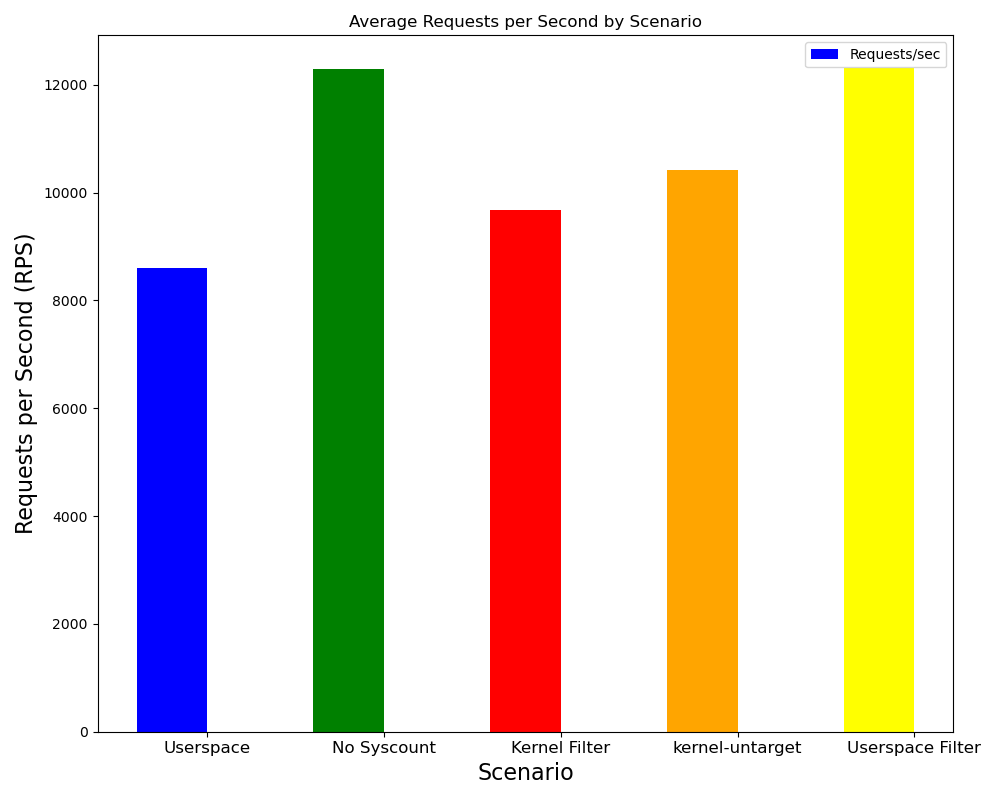
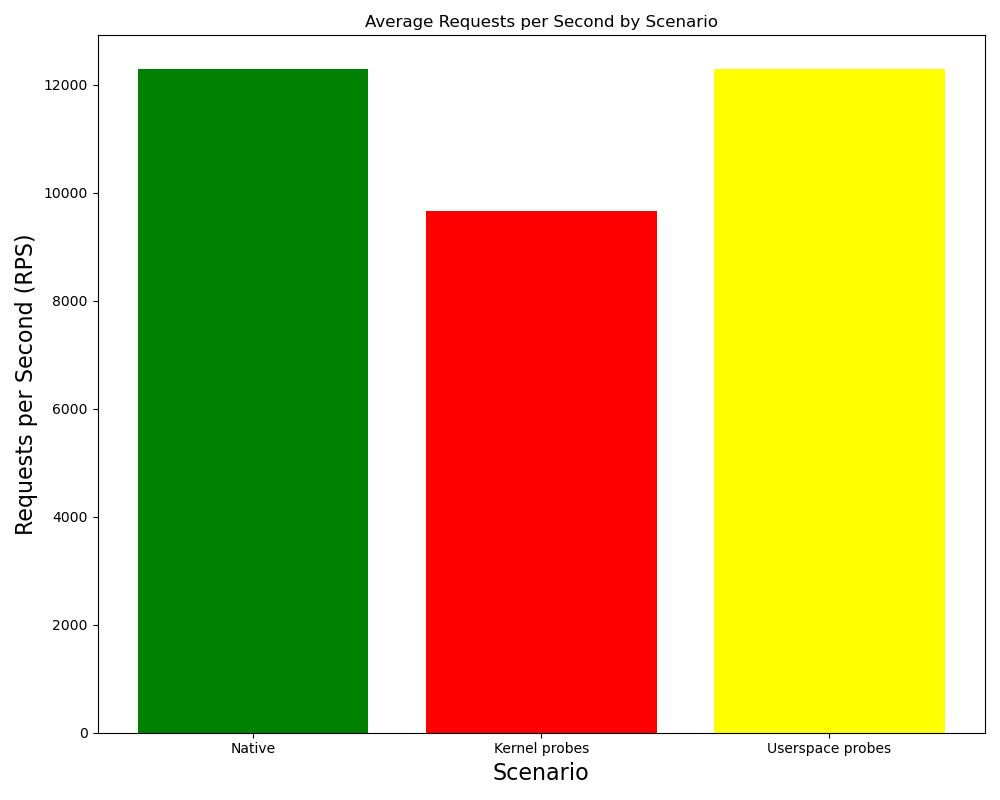
Add process_mnfe.py

diff --git a/syscount/process_mnfe.py b/syscount/process_mnfe.py
@@ -1,0 +1,144 @@
+import re
+import statistics
+import matplotlib.pyplot as plt
+import numpy as np
+
+
+def get_stats_and_plot(log_file_path, label, color):
+    # Regular expressions to extract the numerical values for requests per second and transfer per second
+    req_sec_pattern = re.compile(r"Requests/sec:\s+(\d+\.\d+)")
+    transfer_sec_pattern = re.compile(r"Transfer/sec:\s+(\d+\.\d+)MB")
+
+    # Lists to store the values extracted from the log file
+    req_sec_values = []
+    transfer_sec_values = []
+
+    # Open the log file and extract the values
+    with open(log_file_path, "r") as file:
+        log_contents = file.read()
+        req_sec_values = [
+            float(match) for match in req_sec_pattern.findall(log_contents)
+        ]
+        transfer_sec_values = [
+            float(match) for match in transfer_sec_pattern.findall(log_contents)
+        ]
+
+    # Function to calculate various statistics
+    def calculate_statistics(values):
+        return {
+            "mean": statistics.mean(values),
+            "median": statistics.median(values),
+            "stdev": statistics.stdev(values) if len(values) > 1 else 0,
+            "min": min(values),
+            "max": max(values),
+        }
+
+    # Calculate statistics for Requests/sec and Transfer/sec
+    req_sec_stats = calculate_statistics(req_sec_values)
+    transfer_sec_stats = calculate_statistics(transfer_sec_values)
+
+    # Return the means for graphing
+    return req_sec_stats["mean"], transfer_sec_stats["mean"]
+
+
+# Labels and colors for each scenario
+scenarios = [
+    "Userspace",
+    "No Syscount",
+    "Kernel Filter",
+    "kernel-untarget",
+    "Userspace Filter",
+]
+colors = ["blue", "green", "red", "orange", "yellow"]
+
+# File paths
+file_paths = [
+    "result/userspace.txt",
+    "result/no-syscount.txt",
+    "result/kernel_targeted-filter.txt",
+    "result/kernel_untargeted-filter.txt",
+    "result/userspace-untargeted.txt",
+]
+
+# Gather data
+req_sec_means = []
+transfer_sec_means = []
+for file_path, label in zip(file_paths, scenarios):
+    req_sec_mean, transfer_sec_mean = get_stats_and_plot(
+        file_path, label, colors[scenarios.index(label)]
+    )
+    req_sec_means.append(int(req_sec_mean))
+    transfer_sec_means.append(transfer_sec_mean)
+
+print(req_sec_means)
+
+groups = ["Native", "Kernel", "Userspace"]
+group_data = {
+    "Native": [req_sec_means[1]],
+    "Kernel": [req_sec_means[3], req_sec_means[2]],
+    "Userspace": [req_sec_means[4], req_sec_means[0]],
+}
+colors = {
+    "Native": "#8ECFC9",
+    "Kernel": ["#FFBE7A", "#FA7F6F"],
+    "Userspace": ["#FFBE7A", "#FA7F6F"],
+}
+legends = {
+    "#8ECFC9": "Native",
+    "#FFBE7A": "Untargeted",
+    "#FA7F6F": "Targeted",
+}
+
+
+off = [0.7, 0, -0.7]
+bar_width = 0.10
+# 绘制柱状图
+fig, ax = plt.subplots()
+fig.set_figwidth(fig.get_figwidth() * 1.2)
+fig.set_figheight(fig.get_figheight() * 1.1)
+for i, (group, values) in enumerate(group_data.items()):
+    # 计算每个组的x位置
+    x_pos = [i + bar_width * j + off[i] for j in range(len(values))]
+
+    # 获取每个柱子的颜色
+    group_colors = (
+        colors[group]
+        if isinstance(colors[group], list)
+        else [colors[group]] * len(values)
+    )
+    # 绘制每个组的柱子
+    for x, val, col in zip(x_pos, values, group_colors):
+        b = ax.bar(
+            x,
+            val,
+            color=col,
+            width=bar_width,
+            label=legends[col]
+            if legends[col] not in ax.get_legend_handles_labels()[1]
+            else "",
+        )
+        ax.bar_label(b, [val], fontsize=12)
+
+# 设置图例
+ax.legend(loc="upper center", bbox_to_anchor=(0.5, 1.12), fontsize=15, ncol=3)
+plt.yticks(fontsize=15)
+
+# 设置x轴的刻度标签
+ax.set_xticks([r + off[r] for r in range(len(groups))])
+ax.set_xticklabels(groups, fontsize=15)
+# plt.title('Average Requests per Second by Scenario')
+plt.xlabel("Scenario", fontsize=20, labelpad=-1)
+plt.ylabel("Requests per Second (RPS)", fontsize=20, labelpad=-7)
+plt.savefig("syscount-req.png")
+plt.tight_layout()
+# # Plotting the bar graph for Transfer/sec
+# plt.figure(figsize=(10, 8))
+# plt.bar(x + 0.2, transfer_sec_means, 0.4, label='Transfer/sec', color=colors)
+# plt.xlabel('Scenario', fontsize=16)
+# plt.ylabel('Transfer per Second (MB/sec)', fontsize=16)
+# plt.xticks(x, scenarios, fontsize=14)
+# # plt.legend()
+# plt.title('Average Transfer per Second by Scenario')
+# plt.tight_layout()
+# plt.savefig('average_transfer_by_scenario.png')
+# plt.show()
